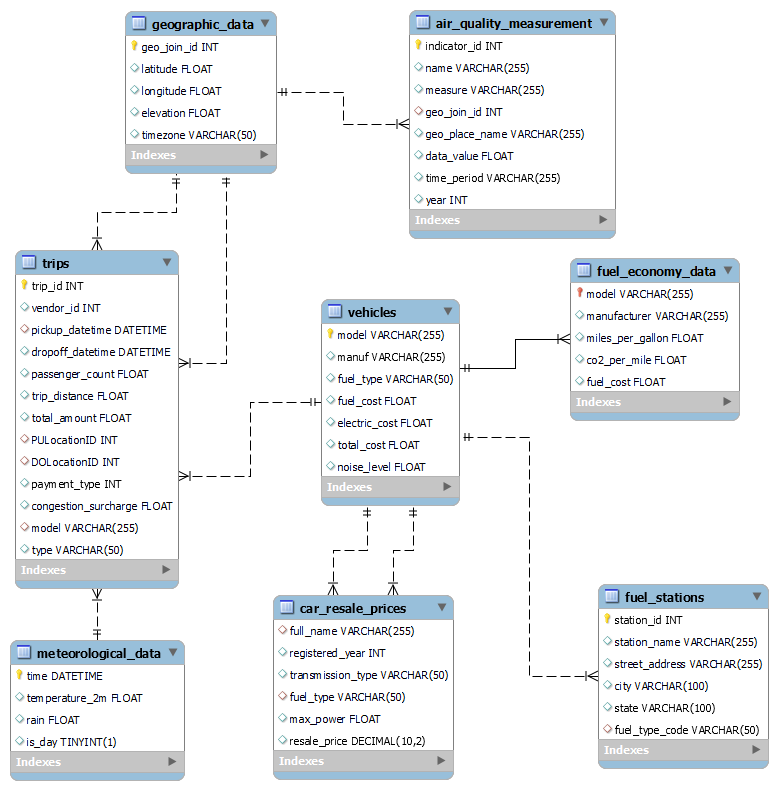
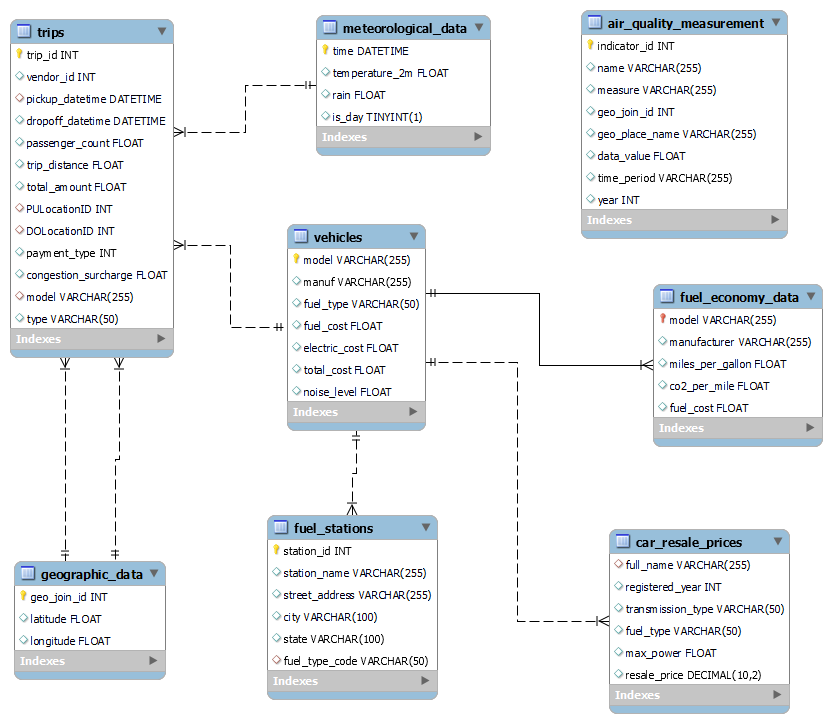
actualizo nombre de tablas y relaciones

diff --git a/dw/Modelo_ER.md b/dw/Modelo_ER.md
@@ -1,23 +1,23 @@
 ## **Modelo de Entidad-Relación (ER)**
 
-### **1. Air Quality Measurement**
+### **1. air_quality_measurement**
 
 | Atributo          | Tipo de dato   | Descripción                                          | Clave       |
 |-------------------|----------------|------------------------------------------------------|-------------|
 | `indicator_id`    | Integer        | Identificador único del indicador                    | PK          |
 | `name`            | Object         | Nombre del indicador                                 |             |
 | `measure`         | Object         | Medida del indicador                                 |             |
-| `geo_join_id`     | Integer        | Identificador del área geográfica                    | FK          |
+| `geo_join_id`     | Integer        | Identificador del área geográfica                    |             |
 | `geo_place_name`  | Object         | Nombre del barrio                                    |             |
 | `data_value`      | Float          | Valor real del indicador                             |             |
 | `time_period`     | Object         | Período de tiempo al que aplican los datos           |             |
 | `year`            | Integer        | Año en el que se tomaron los datos                   |             |
 
 **Relaciones:**
-- `geo_join_id` → **Geographic Data** (`geo_join_id`) - Relación con la entidad geográfica
+- Sin relación con otra entidad
 
 
-### **2. Vehicles**
+### **2. vehicles**
 
 | Atributo         | Tipo de dato   | Descripción                                           | Clave       |
 |------------------|----------------|-------------------------------------------------------|-------------|
@@ -33,7 +33,7 @@
 - `model` → **Trips** (`model`) - Relación con la entidad **Trips** mediante el vehículo usado en el viaje
 
 
-### **3. Trips (Yellow, Green, FHV)**
+### **3. trips (Yellow, Green, FHV)**
 
 | Atributo              | Tipo de dato   | Descripción                                         | Clave       |
 |-----------------------|----------------|-----------------------------------------------------|-------------|
@@ -55,22 +55,19 @@
 - `pickup_datetime` → **Meteorological Data** (`time`) - Relación con el clima durante el viaje
 
 
-### **4. Geographic Data**
+### **4. geographic_data**
 
 | Atributo              | Tipo de dato   | Descripción                                          | Clave       |
 |-----------------------|----------------|------------------------------------------------------|-------------|
-| `geo_join_id`          | Integer        | Identificador geográfico                             | PK          |
-| `latitude`             | Float          | Latitud                                              |             |
-| `longitude`            | Float          | Longitud                                             |             |
-| `elevation`            | Float          | Elevación                                            |             |
-| `timezone`             | Object         | Zona horaria                                         |             |
+| `geo_join_id`         | Integer        | Identificador geográfico                             | PK          |
+| `latitude`            | Float          | Latitud                                              |             |
+| `longitude`           | Float          | Longitud                                             |             |
 
 **Relaciones:**
-- `geo_join_id` → **Air Quality Measurement** (`geo_join_id`) - Relación con mediciones de calidad del aire
 - `geo_join_id` → **Trips** (`PULocationID`, `DOLocationID`) - Relación con viajes realizados en la ubicación
 
 
-### **5. Meteorological Data**
+### **5. meteorological_data**
 
 | Atributo             | Tipo de dato   | Descripción                                          | Clave       |
 |----------------------|----------------|------------------------------------------------------|-------------|
@@ -83,10 +80,11 @@
 - `time` → **Trips** (`pickup_datetime`) - Relación con viajes en función del clima durante el trayecto	
 
 
-### **6. Fuel Stations**
+### **6. fuel_stations**
 
 | Atributo             | Tipo de dato   | Descripción                                          | Clave       |
 |----------------------|----------------|------------------------------------------------------|-------------|
+| `station_id`         | Object         | ID de la estación                                    |             |
 | `station_name`       | Object         | Nombre de la estación                                |             |
 | `street_address`     | Object         | Dirección                                            |             |
 | `city`               | Object         | Ciudad                                               |             |
@@ -97,7 +95,7 @@
 - `fuel_type_code` → **Vehicles** (`fuel_type`) - Relación con el tipo de combustible de los vehículos
 
 
-### **7. Fuel Economy Data**
+### **7. fuel_economy_data**
 
 | Atributo              | Tipo de dato   | Descripción                                          | Clave       |
 |-----------------------|----------------|------------------------------------------------------|-------------|
@@ -111,83 +109,71 @@
 - `model` → **Vehicles** (`model`) - Relación con datos de vehículos
 
 
-### **8. Car Resale Prices**
+### **8. car_resale_prices**
 
 | Atributo            | Tipo de dato   | Descripción                                         | Clave       |
 |---------------------|----------------|-----------------------------------------------------|-------------|
 | `full_name`         | Object         | Nombre completo (marca y modelo)                    | FK          |
 | `registred_year`    | Object         | Año registrado                                      |             |
 | `transmission_type` | Float          | Tipo de transmisión (Manual o Automático)           |             |
-| `fuel_type`         | Float          | Tipo de combustible                                 | FK          |
+| `fuel_type`         | Float          | Tipo de combustible                                 |             |
 | `max_power`         | Float          | Potencia máxima del motor	                         |             |
 | `resale_price`      | Float          | Precio de reventa en USD      	                     |             |
 
 **Relaciones:**
 - `full_name` → **Vehicles** (`model`) - ¿Indicaría que el precio de reventa está asociado a un vehículo específico?
-- `fuel_type` → **Vehicles** (`fuel_type`) - Relación con el tipo de combustible de los vehículos
+
 ---
 
 ## **Relaciones entre Entidades**
 
 
-### Relación 1: **Air Quality Measurement** y **Geographic Data**
-- **Descripción:** Cada medición de calidad del aire se asocia con una ubicación geográfica específica.
-- **Tipo de Relación:** Uno a Muchos (1:N)
-- **Cardinalidad:** Un registro de medición de calidad del aire puede estar asociado con una sola ubicación, pero una ubicación puede tener múltiples mediciones.
-- **Explicación:** Una ubicación geográfica puede tener varias mediciones de calidad del aire a lo largo del tiempo, y cada medición está vinculada a una ubicación específica.
-
-
-### Relación 2: **Vehicles** y **Trips**
+### Relación 1: **Vehicles** y **Trips**
 - **Descripción:** Muchos viajes pueden estar asociados con un único modelo de vehículo.
 - **Tipo de Relación:** Muchos a Uno (N:1)
 - **Cardinalidad:** Muchos viajes pueden ser realizados con un solo modelo de vehículo.
 - **Explicación:** Un modelo de vehículo puede estar involucrado en múltiples viajes, pero cada viaje está asociado con un modelo específico.
 
 
-### Relación 3: **Air Quality Measurement** y **Trips**
+### Relación 2: **Air Quality Measurement** y **Trips**
 - **Descripción:** Cada viaje tiene asociada una medición de calidad del aire para el tiempo y lugar del viaje.
 - **Tipo de Relación:** Uno a Uno (1:1)
 - **Cardinalidad:** Cada viaje está vinculado a una única medición de calidad del aire correspondiente.
 - **Explicación:** Se vinculan las condiciones del aire al momento específico del viaje.
 
 
-### Relación 4: **Trips** y **Geographic Data**
+### Relación 3: **Trips** y **Geographic Data**
 - **Descripción:** Cada viaje tiene una ubicación de recogida y una de entrega que están definidas en **Geographic Data**.
 - **Tipo de Relación:** Uno a Muchos (1:N)
 - **Cardinalidad:** Cada viaje tiene una ubicación de recogida y entrega, y cada ubicación puede tener múltiples viajes.
 - **Explicación:** Una ubicación geográfica puede estar asociada con varios viajes como punto de recogida o entrega.
 
 
-### Relación 5: **Trips** y **Meteorological Data**
+### Relación 4: **Trips** y **Meteorological Data**
 - **Descripción:** Los viajes están influenciados por las condiciones climáticas al momento del trayecto.
 - **Tipo de Relación:** Uno a Uno (1:1)
 - **Cardinalidad:** Cada viaje tiene un momento específico asociado a un registro meteorológico.
 - **Explicación:** Cada registro meteorológico se relaciona con un viaje basado en el tiempo de recogida del viaje.
 
 
-### Relación 6: **Vehicles** y **Fuel Economy Data**
+### Relación 5: **Vehicles** y **Fuel Economy Data**
 - **Descripción:** Cada modelo de vehículo tiene datos específicos sobre su economía de combustible.
 - **Tipo de Relación:** Uno a Uno (1:1)
 - **Cardinalidad:** Cada modelo de vehículo tiene un conjunto único de datos de economía de combustible.
 - **Explicación:** Los datos de economía de combustible están disponibles para cada modelo de vehículo, proporcionando información sobre su eficiencia.
 
 
-### Relación 7: **Fuel Stations** y **Vehicles**
+### Relación 6: **Fuel Stations** y **Vehicles**
 - **Descripción:** Las estaciones de combustible suministran el tipo de combustible utilizado por los vehículos.
 - **Tipo de Relación:** Muchos a Uno (N:1)
 - **Cardinalidad:** Varias estaciones pueden suministrar el mismo tipo de combustible.
 - **Explicación:** Un tipo de combustible puede estar disponible en múltiples estaciones, y cada vehículo usa un tipo específico de combustible.
 
 
-### Relación 8: **Car Resale Prices** y **Vehicles**
+### Relación 7: **Car Resale Prices** y **Vehicles**
 - **Descripción:** La tabla Car Resale Prices almacena información sobre los precios de reventa de distintos modelos de automóviles, junto con detalles como el tipo de transmisión, el tipo de combustible y la potencia máxima del vehículo. La tabla Vehicles contiene información técnica y de costos de los automóviles, como su tipo de combustible y sus costos operativos.
 - **Tipo de Relación:** Muchos a Uno
 - **Cardinalidad:** Un modelo de automóvil de la tabla Vehicles puede aparecer varias veces en la tabla Car Resale Prices con distintos años de registro o precios de reventa.
 - **Explicación:** Permite almacenar información histórica o específica sobre los precios de reventa de vehículos. Esto asegura que cualquier precio de reventa esté vinculado a un modelo de vehículo existente en la base de datos.
 
-
-### Relación 9: **Car Resale Prices** y **Vehicles**
-- **Descripción:** La tabla Car Resale Prices almacena información sobre los precios de reventa de distintos modelos de automóviles, junto con detalles como el tipo de transmisión, el tipo de combustible y la potencia máxima del vehículo. La tabla Vehicles contiene información técnica y de costos de los automóviles, como su tipo de combustible y sus costos operativos.
-- **Tipo de Relación:** Uno a Uno
-- **Cardinalidad:** Cada registro de precio de reventa (en Car Resale Prices) está relacionado con un solo vehículo específico (en Vehicles).
-- **Explicación:** Asegura que los tipos de combustible utilizados en los precios de reventa correspondan a los mismos tipos definidos en la tabla de vehículos. Esto es útil para análisis cruzados entre características del vehículo (por ejemplo, tipo de combustible y costos) y su valor de reventa.
+---
